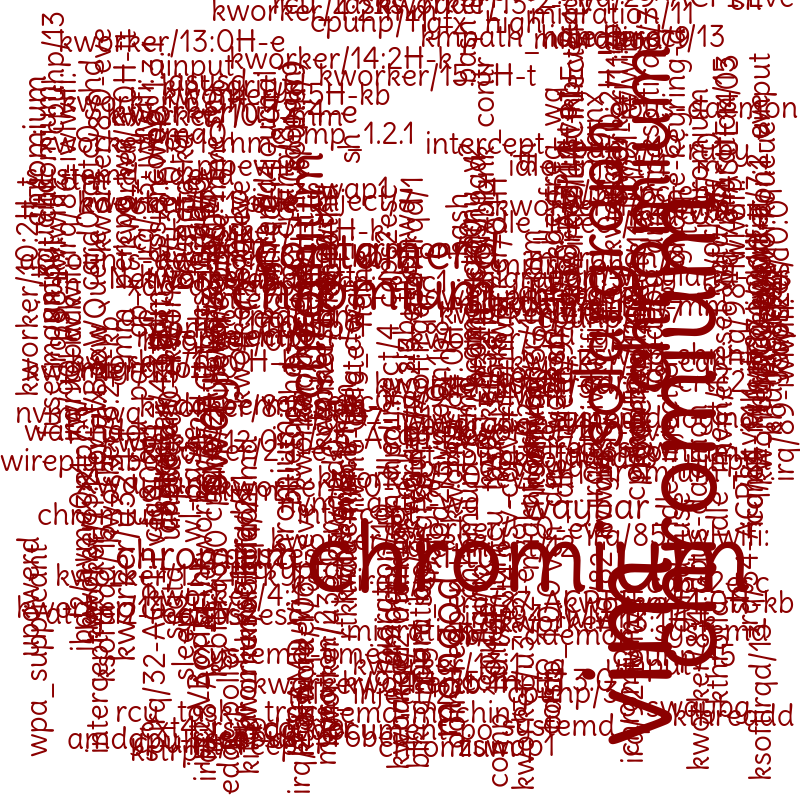
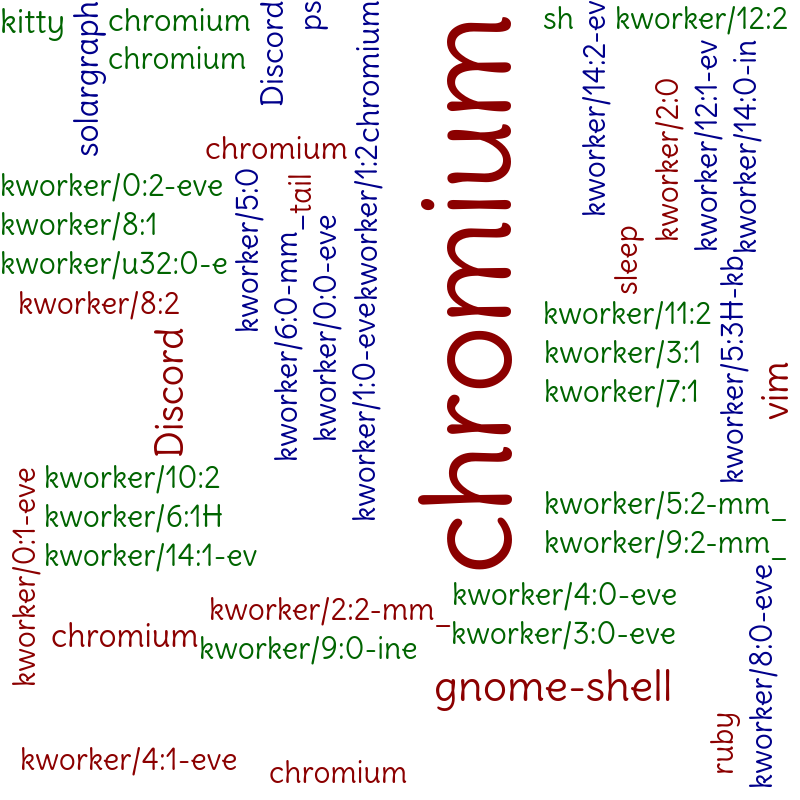
finally made something that kindof works

diff --git a/process_wallpaper.rb b/process_wallpaper.rb
@@ -23,6 +23,34 @@ def normalize(words)
   normalized_words
 end
 
+def check_collision(cenx, ceny, width, height, used_space)
+  x_start = cenx - width / 2
+  x_end = cenx + width / 2
+  y_start = ceny - height / 2
+  y_end = ceny + height / 2
+  overlapped = false
+
+  used_space.each do |space|
+    if (x_start > space[2]) || (x_end < space[0]) || (y_start > space[3]) || (y_end < space[1])
+      overlapped = false
+    else
+      overlapped = true
+      break
+    end
+
+    # if ((x_start > space[0] && x_start < space[2]) || (x_end > space[0] && x_end < space[2]) || (x_start < space[0] && x_end > space[2])) && ((y_start > space[1] && y_start < space[3]) || (y_end > space[1] && y_end < space[3]) || (y_start < space[1] && y_end > space[3]))
+    #   overlapped = true
+    #   break
+    # end
+    # elsif x_end > space[0] && x_end < space[2]
+    #   if (y_start > space[1] && y_start < space[3]) || (y_end > space[1] && y_end < space[3]) || (y_start < space[1] && y_end > space[3])
+    #     overlapped = true
+    #     break
+    #   end
+  end
+  overlapped
+end
+
 words = [['this', 50], ['is', 40], ['a', 100], ['something', 190], ['okay', 21]]
 
 normalized_words = normalize(words)
@@ -31,6 +59,7 @@ puts normalized_words.inspect
 
 normalized_processes = normalize(processes)
 normalized_processes.sort_by! { |process| process[1] }.reverse!
+normalized_processes = normalized_processes.take(50)
 puts normalized_processes.inspect
 
 canvas = Magick::Image.new(800, 800) { |options| options.background_color = 'white' }
@@ -40,27 +69,80 @@ used_space = []
 normalized_processes.each do |word|
   text = Magick::Draw.new
   text.font_family = 'Delius'
+  text.gravity = Magick::CenterGravity
   text.pointsize = word[1]
   rotation = rand(0..1).zero? ? 0 : -90
   text.rotation = rotation
   metrics = text.get_type_metrics(canvas, word[0])
-  x = rotation.zero? ? rand(0..800 - metrics.width) : rand(metrics.height..800)
-  y = rotation.zero? ? rand(0..800 - metrics.height) : rand(metrics.width..800)
-  if rotation.zero?
-    used_space.push([x, y, x + metrics.width, y + metrics.height])
-  else
-    used_space.push([y - metrics.width, x - metrics.height, y, x])
-  end
+  x = if rotation.zero?
+        rand((-400 + metrics.width / 2)..(400 - metrics.width / 2))
+      else
+        rand((-400 + metrics.height / 2)..(400 - metrics.height / 2))
+      end
+  y = if rotation.zero?
+        rand((-400 + metrics.height / 2)..(400 - metrics.height / 2))
+      else
+        rand((-400 + metrics.width / 2)..(400 - metrics.width / 2))
+      end
+  collision = if rotation.zero?
+                check_collision(x, y, metrics.width, metrics.height, used_space)
+              else
+                check_collision(x, y, metrics.height, metrics.width, used_space)
+              end
+
   puts word[0]
   puts rotation
   puts x
   puts y
+  puts collision
+  puts used_space.inspect
   puts ''
 
-  text.annotate(canvas, 0, 0, x, y, word[0]) { |options| options.fill = 'darkred' }
-end
+  if collision
+    x = rotation.zero? ? -400 + metrics.width / 2 : -400 + metrics.height / 2
+    y = rotation.zero? ? -400 + metrics.height / 2 : -400 + metrics.width / 2
 
-puts used_space.inspect
+    if rotation.zero?
+      while y < 400 - metrics.height / 2
+        collision = check_collision(x, y, metrics.width, metrics.height, used_space)
+        if collision
+          x += 1
+          if x > 400 - metrics.width / 2
+            x = -400 + metrics.width / 2
+            y += 1
+          end
+        else
+          text.annotate(canvas, 0, 0, x, y, word[0]) { |options| options.fill = 'darkgreen' }
+          puts 'breaking'
+          break
+        end
+      end
+    else
+      while y < 400 - metrics.width / 2
+        collision = check_collision(x, y, metrics.height, metrics.width, used_space)
+        if collision
+          x += 1
+          if x > 400 - metrics.height / 2
+            x = -400 + metrics.height / 2
+            y += 1
+          end
+        else
+          text.annotate(canvas, 0, 0, x, y, word[0]) { |options| options.fill = 'darkblue' }
+          puts 'breaking'
+          break
+        end
+      end
+    end
+  else
+    text.annotate(canvas, 0, 0, x, y, word[0]) { |options| options.fill = 'darkred' }
+  end
+
+  if rotation.zero?
+    used_space.push([x - metrics.width / 2, y - metrics.height / 2, x + metrics.width / 2, y + metrics.height / 2])
+  else
+    used_space.push([x - metrics.height / 2, y - metrics.width / 2, x + metrics.height / 2, y + metrics.width / 2])
+  end
+end
 
 canvas.write('output.png')
 
